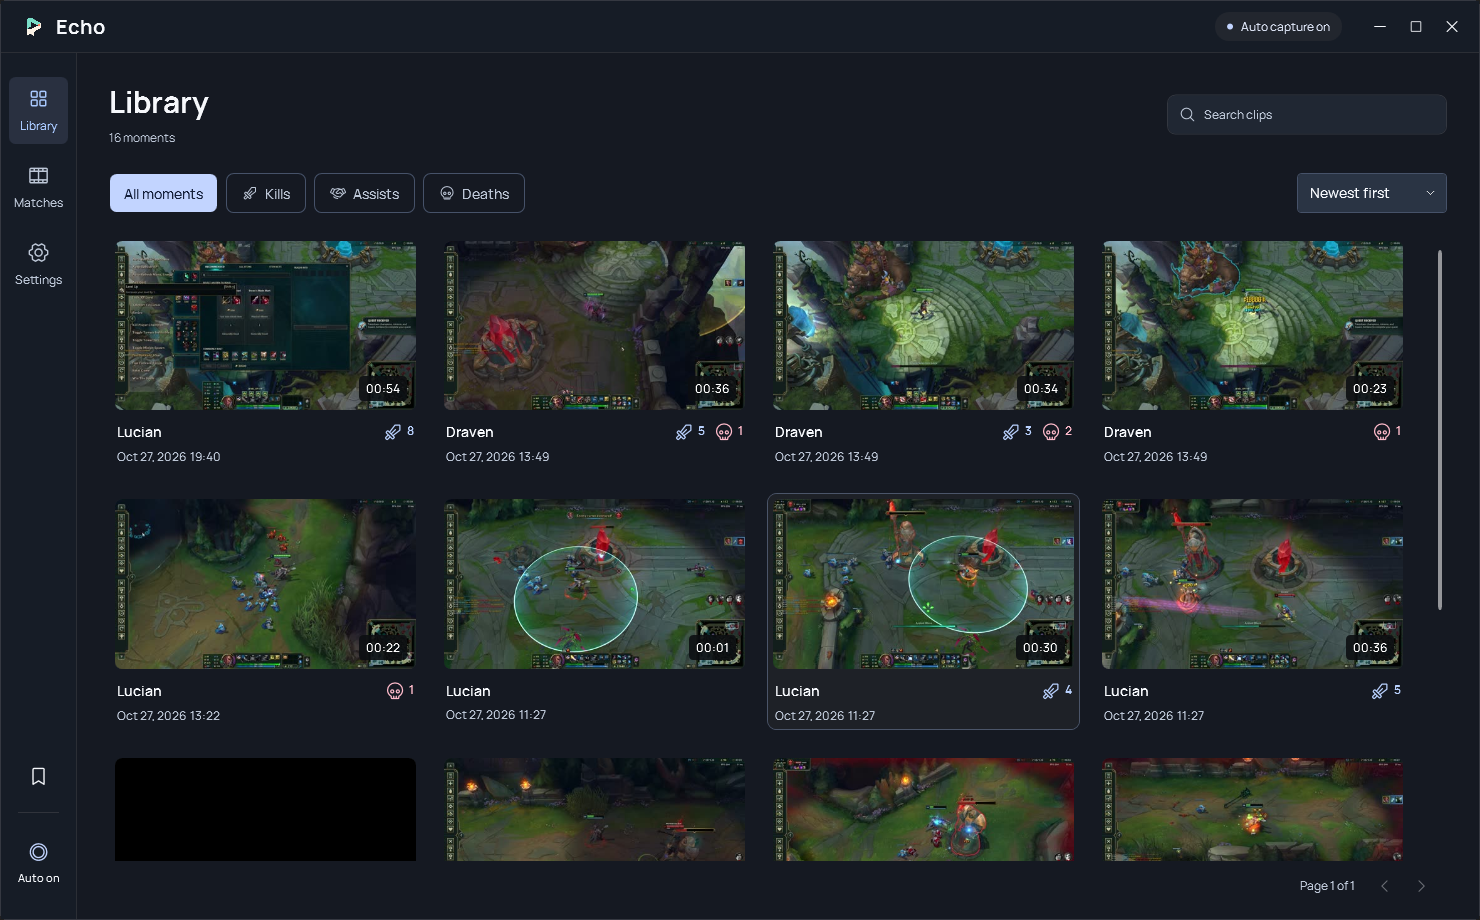
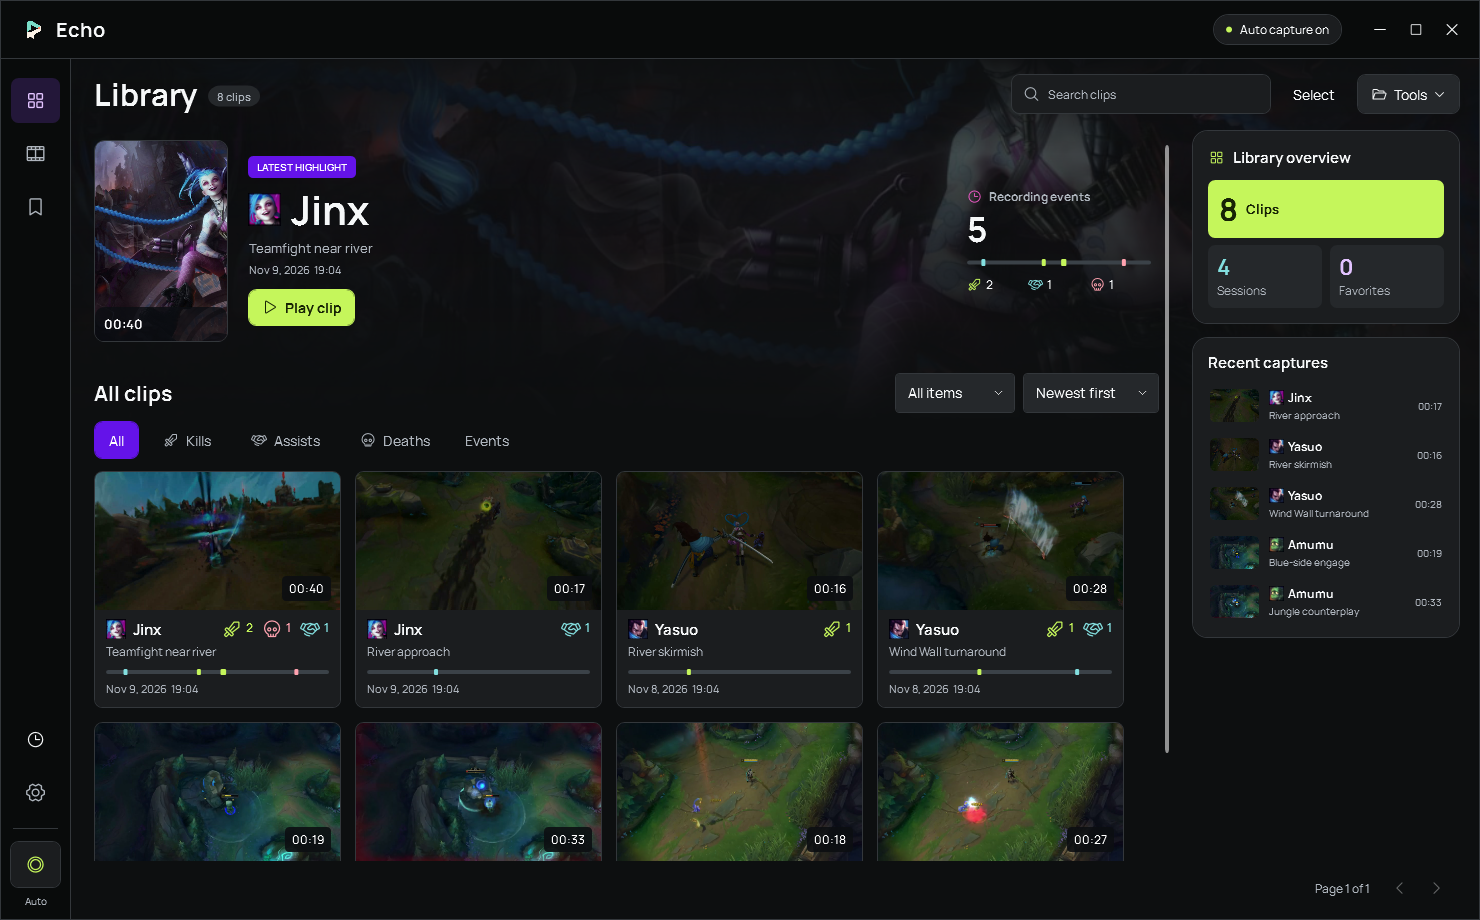
docs: refresh the README for the redesigned Echo app

diff --git a/README.md b/README.md
@@ -1,27 +1,42 @@
-<p align="center"><img src="assets/brand/echo-emblem.png" width="88" alt="Echo" /></p>
+<p align="center">
+  <img src="assets/brand/echo-emblem.png" width="84" alt="Echo logo" />
+</p>
 
-# Echo
+<h1 align="center">Echo</h1>
 
-A lightweight League of Legends recorder for Windows. Keep your plays, edit them, and share them.
+<p align="center">Automatic highlights and full-match recording for League of Legends on Windows.</p>
 
-![Echo clip library](docs/images/library.png)
+<p align="center">
+  <strong><a href="https://github.com/Yimikami/echo-lol/releases/latest">Download for Windows</a></strong>
+  · <a href="https://github.com/Yimikami/echo-lol/issues">Report an issue</a>
+</p>
 
-- Automatically capture League kills, assists, deaths, multikills and objectives, or save the entire match.
-- Review event markers and APM, bookmark plays, and export a recap from a recorded match.
-- Select clips in bulk, organize them with favorites and tags, and restore items from Trash.
-- Export original, square or vertical MP4s with optional League HUD and keyboard/mouse overlays.
-- Capture game audio by default. Desktop audio, microphone and separate tracks are optional.
-- Import or relink MP4s, back up the library, and set an optional storage limit.
+![Echo Library with a featured champion, highlight cards, event markers, and recent captures](docs/images/library.png)
 
-## Download
+## Get started
 
-[Download Echo for Windows](https://github.com/Yimikami/echo-lol/releases/latest). Run **Echo-Setup** or extract the portable ZIP and run **Echo.exe**.
+1. Download **Echo-Setup** from the latest release, or extract the portable ZIP and run **Echo.exe**. Both include .NET, the OBS runtime and FFmpeg.
+2. Choose **Highlights only** or **Entire match** during setup. Echo starts recording when you enter a League match and keeps running in the system tray when you close the library.
+3. Find your recordings in **Library** or **Matches**. Press **Ctrl+Shift+F8** in-game to save a moment manually, or change the shortcut in Settings.
 
-[Development builds](https://github.com/Yimikami/echo-lol/releases/tag/development) are also available.
+Echo runs on Windows 10/11 x64 and uses a hardware H.264 encoder. Recordings are saved locally. Game audio is captured by default, with desktop audio and microphone available separately.
 
-## Build and run
+## Capture, review, share
 
-Requires Windows 10/11 x64, .NET 10 SDK, a hardware H.264 encoder, OBS Studio 33 runtime files and FFmpeg on PATH. Running a built copy requires the .NET 10 Desktop Runtime. OBS itself does not need to be running.
+- **Capture the moments you want.** Automatically save kills, assists, deaths, multikills and objectives. Set how much video to keep before and after each event.
+- **Review the whole match.** Jump to event markers, bookmark plays and build a recap. Enable **Record gameplay inputs** under **Settings → Highlights** before a match to add an APM graph and a customizable keyboard and mouse overlay.
+- **Export and organize.** Trim and export original, square or vertical MP4s, with optional HUD and input overlays. Use bulk selection, favorites and tags to manage your library.
+
+![Echo player with gameplay, an APM timeline, and a list of match events](docs/images/player.png)
+
+*Screenshots show the Echo interface with demo recordings and [Riot Games gameplay footage](https://www.leagueoflegends.com/en-us/how-to-play/).*
+
+## Build from source
+
+<details>
+<summary>Build instructions</summary>
+
+Requires the .NET 10 SDK, the OBS Studio 33 runtime, and FFmpeg on PATH. The local build below also uses the .NET 10 Desktop Runtime.
 
 ```powershell
 git clone https://github.com/Yimikami/echo-lol.git
@@ -30,16 +45,12 @@ pwsh ./scripts/build.ps1 -BundleRuntime -ObsDirectory "C:\Program Files\obs-stud
 ./artifacts/app/Echo.exe
 ```
 
-Open Echo and play League. Recording starts automatically; closing the library keeps the recorder running. Choose **Export** while watching a clip or **Select** to export several at once. Enable **Record gameplay inputs** in Highlights before a match to capture APM and the input overlay. Use **Custom keys** in Overlay settings to choose what appears in playback and exports. Use **Ctrl+Shift+F8** to save a moment manually or change the shortcut in Settings.
+[Capture and build architecture](docs/architecture.md) · [Validation](docs/validation.md) · [Development builds](https://github.com/Yimikami/echo-lol/releases/tag/development)
 
-Fullscreen monitor capture can include everything visible on the game's monitor while League has focus. Window capture isolates the game window. See [capture details](docs/architecture.md).
-
-## Development
-
-Early development. Windows packages are published automatically from main; version tags create versioned releases. Hardware encoding reduces overhead, but zero FPS impact is not guaranteed. See [validation](docs/validation.md), [build architecture](docs/architecture.md) and [contributing](https://github.com/Yimikami/echo-lol/issues).
+</details>
 
 ## License
 
-GPL-3.0-or-later. Built with libobs, FFmpeg, WPF UI, Phosphor Icons and Manrope. [Third-party notices](THIRD_PARTY_NOTICES.md).
+[GPL-3.0-or-later](LICENSE) · [Third-party notices](THIRD_PARTY_NOTICES.md)
 
 Echo isn't endorsed by Riot Games and doesn't reflect the views or opinions of Riot Games or anyone officially involved in producing or managing Riot Games properties. Riot Games and all associated properties are trademarks or registered trademarks of Riot Games, Inc.
